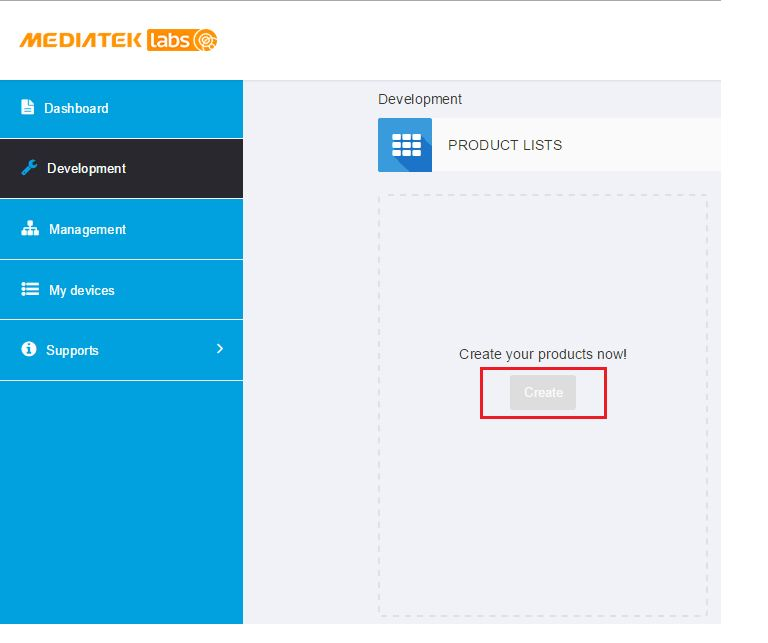
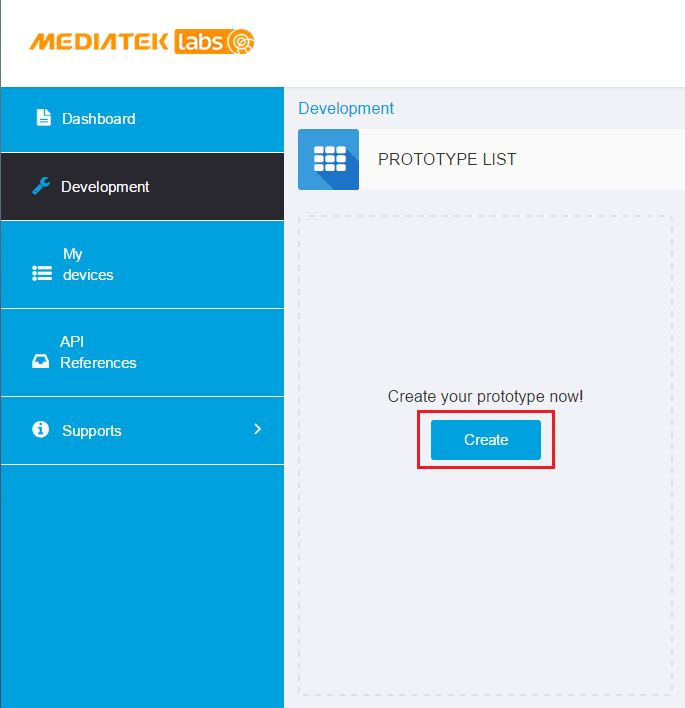
tutorial update

diff --git a/tutorial/create_your_first_product.md b/tutorial/create_your_first_product.md
@@ -1,35 +1,33 @@
-# Create your first product
+# Create your first protptype
 
 ![](https://raw.githubusercontent.com/Mediatek-Cloud/MCS/master/graphics/FirstProduct.JPG)
 
-## How to create a product step by step
+## How to create a prototype step by step
 
 
 Step 1. Click Development on the left hand side navigator.
 
-Step 2. Click Create button on the right to create a new product.
+Step 2. Click Create button on the right to create a new prototype.
 
 
 ![](https://raw.githubusercontent.com/Mediatek-Cloud/MCS/master/graphics/CreateProduct.JPG)
 
 
 
-Step 3. Enter the Product name, version, and select chip type, industry and Click Create button. Your Product is created.
+Step 3. Enter the Prototype name, version, and select chip type, industry and Click Save button. Your Prototype is created.
 
-
-![](https://raw.githubusercontent.com/Mediatek-Cloud/MCS/master/graphics/CreateProductPage.JPG)
-
-
-After your product is created, you will get to see the product Id and product key. Those information are essentially important when your product goes into the mass production stage, your product's devices will need the product Id and product key to be registered correctly.
-
-
-Step 4. Click Detail button of the product just created.
+Step 4. Click Detail button of the prototype just created.
 
 
 ![](https://raw.githubusercontent.com/Mediatek-Cloud/MCS/master/graphics/ProductDetail.JPG)
 
 
-Step 5. Click Add in the product just created.
+After your prototype is created, you can start to set the data channel, notification, user privilege, and create test devices alll in the prototype page.
+
+![](https://raw.githubusercontent.com/Mediatek-Cloud/MCS/master/graphics/CreateProductPage.JPG)
+
+
+Step 5. Click Add in the data channel tab.
 
 ![](https://raw.githubusercontent.com/Mediatek-Cloud/MCS/master/graphics/AddDataChannel.JPG)
 

diff --git a/tutorial/getting_started.md b/tutorial/getting_started.md
@@ -4,9 +4,8 @@ Here are the four steps to connect MediaTek Cloud Sandbox to your development an
 
 1. Develop Prototype
 2. Create Test Device
-3. Release Prototype for deployment
-4. Managing deployed devices
-5. Manage your Profile
+3. Managing deployed test devices
+4. Manage your Profile
 
 
 
@@ -20,12 +19,15 @@ The developer develop a prototype by first create a prototype in the Development
 
 AFter creating a prototype, the developer can create a test device to test and control his device. There is also a mobile management console which allows the developer to visually view the simulated result for his prototype.
 
-[Release Product for deployment]
+[Managing deployed test devices]
 
-After the prototype is tested, the developer then release the prototype for deployment. A prototype may have several connected device.
+The developer can monitor all the test devices under each prototype in the Development console, the developer can also manage all the test device in the My device console which he has the access for.
 
-[Managing deployed devices]
+In the future, when the prototype is release to the end user, the end user can manage and configure the device in the My device console as well to view the data, set notification, and share the device to other users.
 
-All the device can be registered and connected to the MCS platform. The developer can monitor the devices under each prototype, and the use can manage his device base on his preference.
+[Manage your profile]
+
+You can always manage your user profile by clicking on your name on the upper right panel, and click Profile. You can change the password for your account and change the timezone by selecting your current country. All your prototypes and test devices will use the tomezone you have set here.
+
 
 
